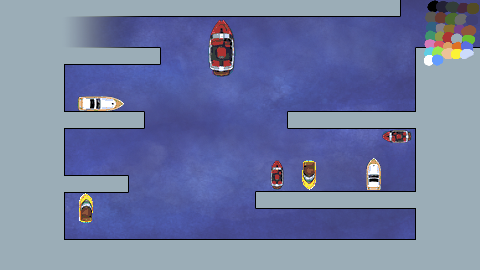
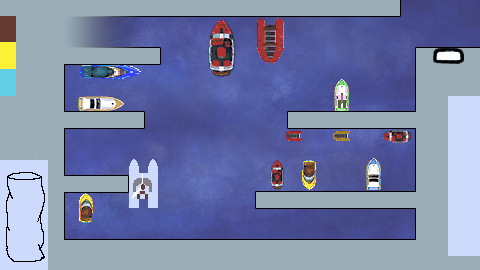
+ Added help screen, and stuff

diff --git a/src/game.rs b/src/game.rs
@@ -1,7 +1,6 @@
 
 use image::GenericImageView;
 use rand::Rng;
-use perlin::PerlinNoise;
 
 use crate::bobs::bobtype::BobType;
 use crate::counter::Counter;
@@ -98,12 +97,16 @@ pub struct Game {
 	bag_fill: f32,
 	bag_fill_target: f32,
 	time: f32,
+	no_move_after_start_time: f32,
+	move_count: usize,
 	trash_recycled: usize,
 	time_since_last_trash: f32,
 	active_trash: usize,
 	max_trash: usize,
 	gameover: bool,
 	gameover_offset: f32,
+	help_alpha: f32,
+	show_help: bool,
 
 	render_map: bool,
 }
@@ -132,12 +135,16 @@ impl Game {
 			bag_fill: 0.0,
 			bag_fill_target: 0.0,
 			time: 0.0,
+			no_move_after_start_time: 0.0,
+			move_count: 0,
 			trash_recycled: 0,
 			time_since_last_trash: 0.0,
 			active_trash: 0,
 			max_trash: 100,
 			gameover: false,
 			gameover_offset: 1.0,
+			help_alpha: 0.0,
+			show_help: false,
 
 			render_map: false,
 		};
@@ -266,12 +273,16 @@ impl Game {
 		self.bag_fill = 0.0;
 		self.bag_fill_target = 0.0;
 		self.time = 0.0;
+		self.no_move_after_start_time = 0.0;
+		self.move_count = 0;
 		self.trash_recycled = 0;
 		self.time_since_last_trash = 0.0;
 		self.active_trash = 0;
 		self.max_trash = 100;
 		self.gameover = false;
 		self.gameover_offset = 1.0;
+		self.help_alpha = 0.0;
+		self.show_help = false;
 
 		self.render_map = false;
 	}
@@ -324,6 +335,17 @@ impl Game {
 			return;
 		}
 
+		if self.show_help {
+			self.help_alpha += 0.5 * time_step;
+			if self.help_alpha > 1.0 {
+				self.help_alpha = 1.0;
+			}
+		} else {
+			self.help_alpha -= 0.5 * time_step;
+			if self.help_alpha < 0.0 {
+				self.help_alpha = 0.0;
+			}
+		}
 		let difficulty = self.difficulty();
 		let mut auto_spawn_time = 3.0 - 2.0 * ( difficulty/100.0 );
 		if auto_spawn_time < 0.1 {
@@ -332,6 +354,8 @@ impl Game {
 		if self.time_since_last_trash > auto_spawn_time {
 			self.spawn_trash();
 		}
+
+		let mut any_action = false;
 
 		if input.action_a && self.trash.len() < self.max_trash_bag {
 			let ( fx, fy ) = self.grid_in_front_of_player();
@@ -348,6 +372,7 @@ impl Game {
 					t.bob_type = BobType::None;
 //					self.grid[ p ].bob_type = BobType::None;
 					self.active_trash -= 1;
+					any_action = true;
 				}
 			}
 		} else if input.action_b && self.trash.len() > 0 {
@@ -358,11 +383,13 @@ impl Game {
 			if target_tile.trash {
 				trash_dropped = true;
 				self.trash_recycled += 1;
+				any_action = true;
 			} else if target_tile.bob_type == BobType::None {
 				if target_tile.walkable || target_tile.rowable {
 					target_tile.bob_type = bob_type;
 					trash_dropped = true;
 					self.active_trash += 1;
+					any_action = true;
 				}
 			}
 
@@ -378,15 +405,19 @@ impl Game {
 		if input.right {
 			self.player_pos.0 += dist;
 			self.player_direction = Direction::Right;
+			any_action = true;
 		} else if input.left {
 			self.player_pos.0 -= dist;
 			self.player_direction = Direction::Left;
+			any_action = true;
 		} else if input.down {
 			self.player_pos.1 += dist;
 			self.player_direction = Direction::Down;
+			any_action = true;
 		} else if input.up {
 			self.player_pos.1 -= dist;
 			self.player_direction = Direction::Up;
+			any_action = true;
 		}
 
 		let mut new_is_valid = true;
@@ -427,6 +458,18 @@ impl Game {
 			self.player_pos = old_pos;
 		}
 
+		if !any_action {
+			self.no_move_after_start_time += time_step;
+		} else {
+			self.no_move_after_start_time = 0.0;
+		}
+
+		if self.no_move_after_start_time > 10.0 {
+			self.show_help = true;
+			self.time_since_last_trash = 0.0;	// don't trash while blocked/paused ;)
+		} else {
+			self.show_help = false;
+		}
 		// bag
 
 		self.bag_fill_target = 16.0 * self.trash.len() as f32;
@@ -478,13 +521,10 @@ impl Game {
 			self.bobmanager.render( fb, BobType::Target, ( fx * 16 ) as isize, ( fy * 16 ) as isize );
 		}
 
-		let perlin = PerlinNoise::new();
 		for y in 0..GRID_HEIGHT {
 			for x in 0..GRID_WIDTH {
 				let p = ( y * GRID_WIDTH + x ) as usize;
 				if self.grid[ p ].bob_type != BobType::None {
-//					let ox = ( perlin.get3d([x as f64, y as f64, self.time as f64 * 0.01]) * 8.0 ) as usize;
-//					let oy = ( perlin.get3d([x as f64, y as f64, self.time as f64 * 0.011]) * 8.0 ) as usize;
 					let ox = ( 0.0 + ( x as f64 + y as f64 + self.time as f64 * 11.1 ).sin() * 2.0 ) as isize;
 					let oy = -ox;
 					let bx = ( ( ( x * 16 ) as isize ) + ox ) as isize;
@@ -550,6 +590,10 @@ impl Game {
 
 		if self.title_overlay > 0.0 {
 			self.bobmanager.render_fullscreen_alpha( fb, BobType::Title, self.title_overlay );
+		}
+
+		if self.help_alpha > 0.0 {
+			self.bobmanager.render_fullscreen_alpha( fb, BobType::Help, self.help_alpha );
 		}
 
 

diff --git a/src/bobs/bobmanager.rs b/src/bobs/bobmanager.rs
@@ -37,6 +37,10 @@ impl BobManager {
 			self.load_png_bytes( BobType::GameOver, bytes );
 		}
 		{
+			let bytes = include_bytes!("./../../resources/help.png");
+			self.load_png_bytes( BobType::Help, bytes );
+		}
+		{
 			let bytes = include_bytes!("./../../resources/numbers.png");
 			self.load_png_bytes( BobType::Numbers, bytes );
 		}

diff --git a/src/main.rs b/src/main.rs
@@ -2,7 +2,6 @@
 
 extern crate minifb;
 extern crate rand;
-extern crate perlin_noise as perlin;
 
 use std::time::{Duration, Instant};
 

diff --git a/src/bobs/bobtype.rs b/src/bobs/bobtype.rs
@@ -3,6 +3,7 @@ pub enum BobType {
 	None,
 	Title,
 	GameOver,
+	Help,
 	Numbers,
 	Target,
 	PlayerLeft,
